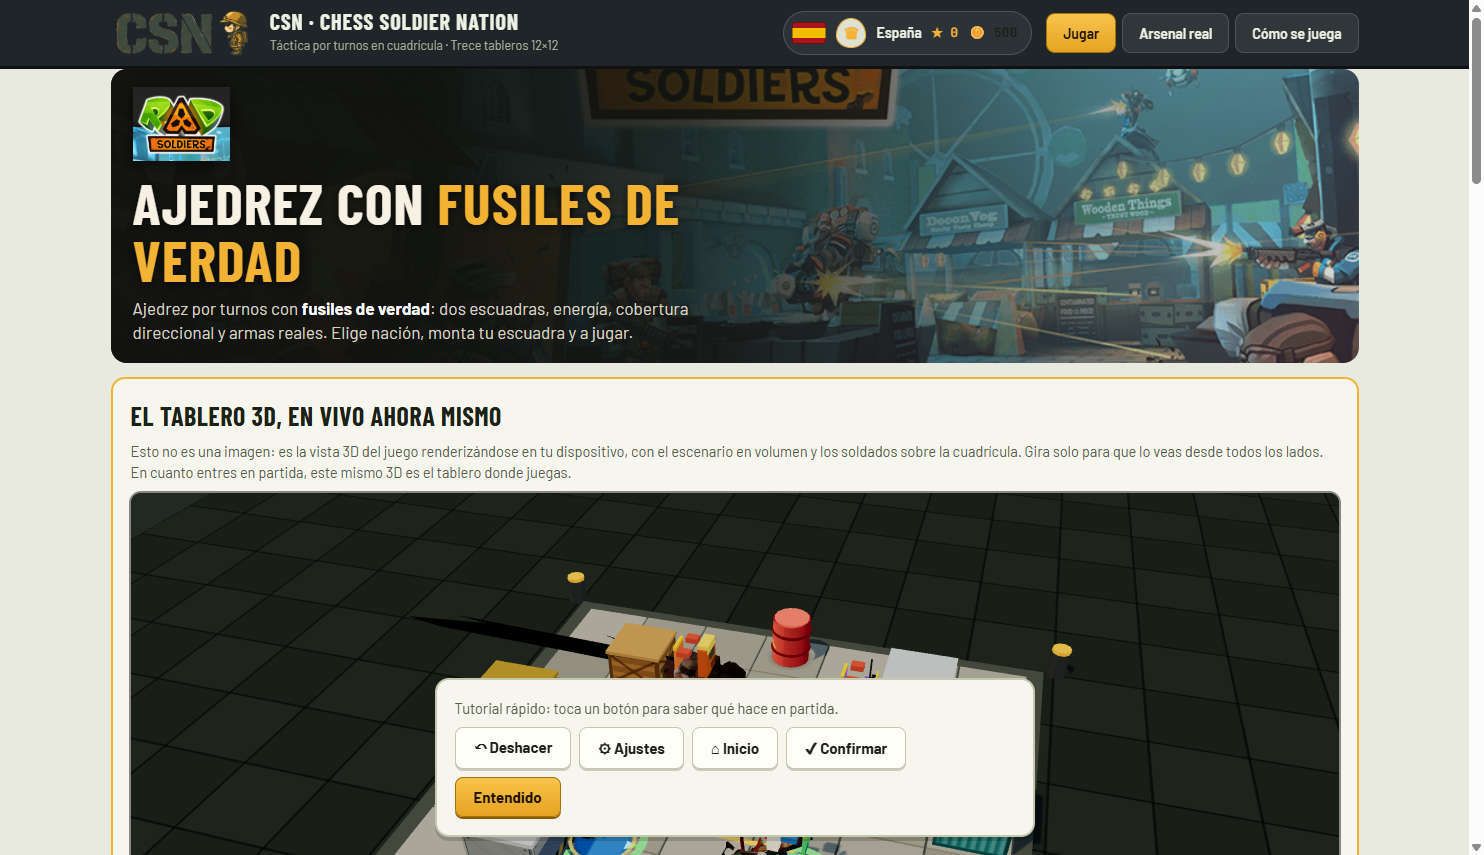
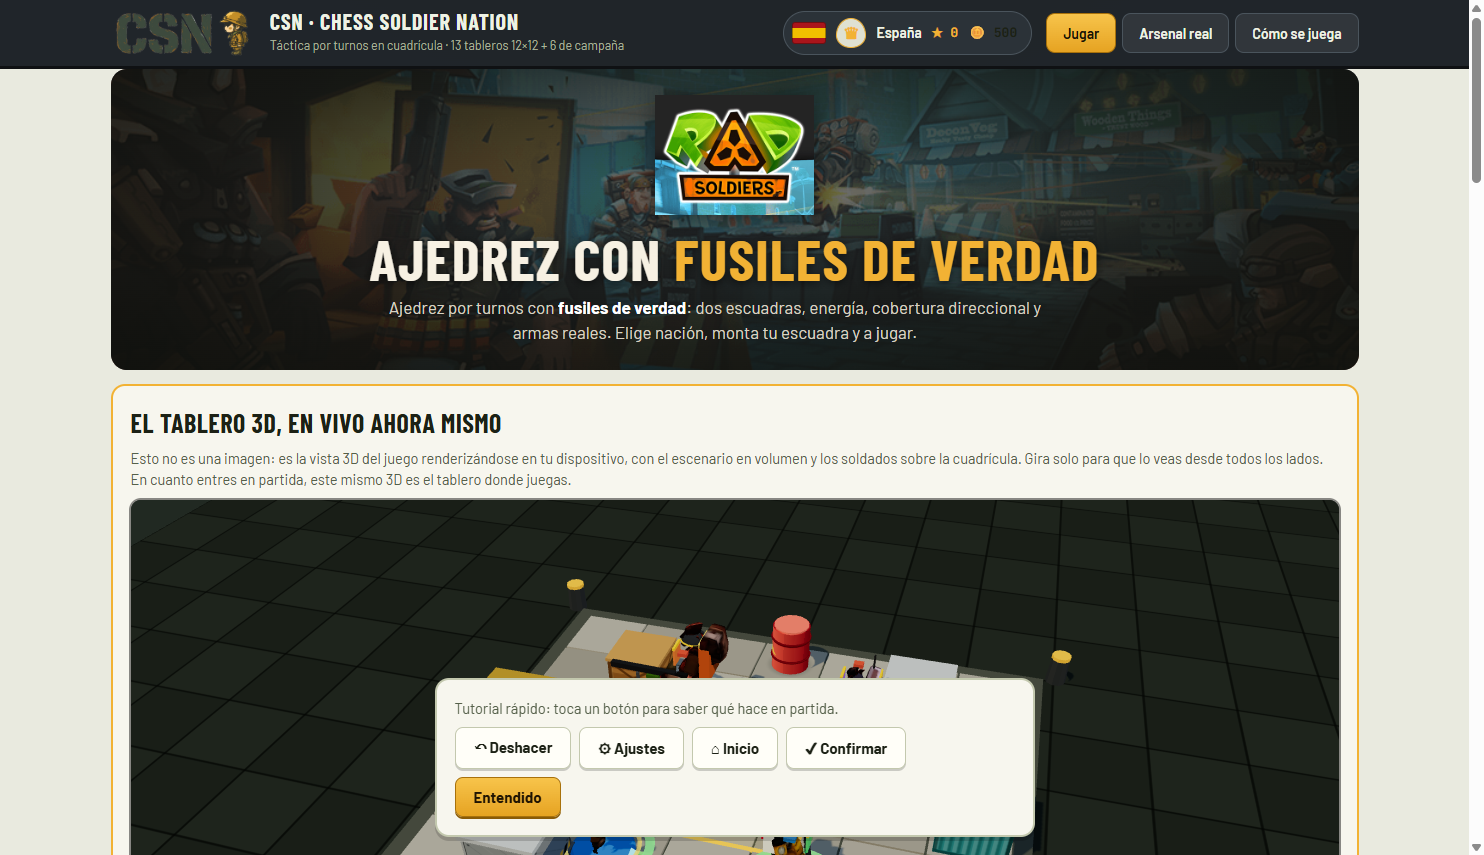
Portada con la composicion del original
Logo RAD SOLDIERS grande y centrado sobre la escena del mercado del
splash (recortada para que no salga el rotulo duplicado), velo radial para
legibilidad y titular centrado debajo. Anotado en el examen que hay que
borrar el perfil de captura al cambiar assets (el cache falsea capturas).

diff --git a/index.html b/index.html
@@ -365,15 +365,15 @@ button img.ab-ico{width:18px;height:18px;vertical-align:-3px;margin-right:6px;bo
 .res-row span{text-align:center}
 .squad-row .sq-ico{width:34px;height:34px;border-radius:8px;background:#1d221c;object-fit:cover}
 .squad-row .sq-char{font-size:11.5px;color:var(--ink);font-weight:600}
-.heroOrigen{position:relative;overflow:hidden;border-radius:16px;padding:18px 22px;min-height:190px}
-.heroFondo{position:absolute;inset:0;background-size:cover;background-position:right center;opacity:.85}
-.heroVelo{position:absolute;inset:0;background:linear-gradient(90deg,rgba(16,18,14,.97) 26%,rgba(16,18,14,.86) 46%,rgba(16,18,14,.35) 78%,rgba(16,18,14,.15))}
-.heroContenido{position:relative;max-width:640px}
+.heroOrigen{position:relative;overflow:hidden;border-radius:16px;padding:26px 22px;min-height:264px;display:flex;align-items:center;justify-content:center;text-align:center}
+.heroFondo{position:absolute;inset:0;background-size:cover;background-position:center 40%;opacity:.8}
+.heroVelo{position:absolute;inset:0;background:radial-gradient(ellipse at 50% 42%,rgba(14,16,12,.55) 0%,rgba(14,16,12,.86) 62%,rgba(14,16,12,.95) 100%)}
+.heroContenido{position:relative;max-width:760px}
 .heroOrigen h1{color:#f7f1e3;text-shadow:0 2px 8px rgba(0,0,0,.55)}
 .heroOrigen p{color:#d8d2c2}
 .heroOrigen b{color:#ffffff}
 .heroOrigen em{color:var(--amber)}
-.heroLogo{height:74px;margin:0 0 8px;filter:drop-shadow(0 4px 8px rgba(0,0,0,.55))}
+.heroLogo{height:120px;margin:0 0 10px;filter:drop-shadow(0 6px 14px rgba(0,0,0,.6))}
 @media(max-width:640px){.heroLogo{height:44px}.heroOrigen{min-height:150px}}
 details.rule>summary{cursor:pointer;font-weight:700;font-size:13px;padding:4px 0}
 details.rule[open]>summary{color:var(--amber)}

diff --git a/docs/Examen_para_continuar.md b/docs/Examen_para_continuar.md
@@ -40,6 +40,9 @@ Para medir equilibrio: `node bench/harness.js <modo> <mapa> <partidas> 4`
 con n<30.
 
 Para capturar: `node _capture_all.mjs <mapa|campana:N> <prefijo> [ms]`.
+**Si cambias una imagen o un asset, borra el perfil de captura**
+(`_chrome_*`) antes: el navegador cachea y la captura miente (nos pasó con
+el arte de la portada).
 Captura 3D y solo baja a 2D si la 3D no arranca. Con la ventana tapada Chrome
 estrangula el render: usar `Page.bringToFront` (ya está en el script).
 
